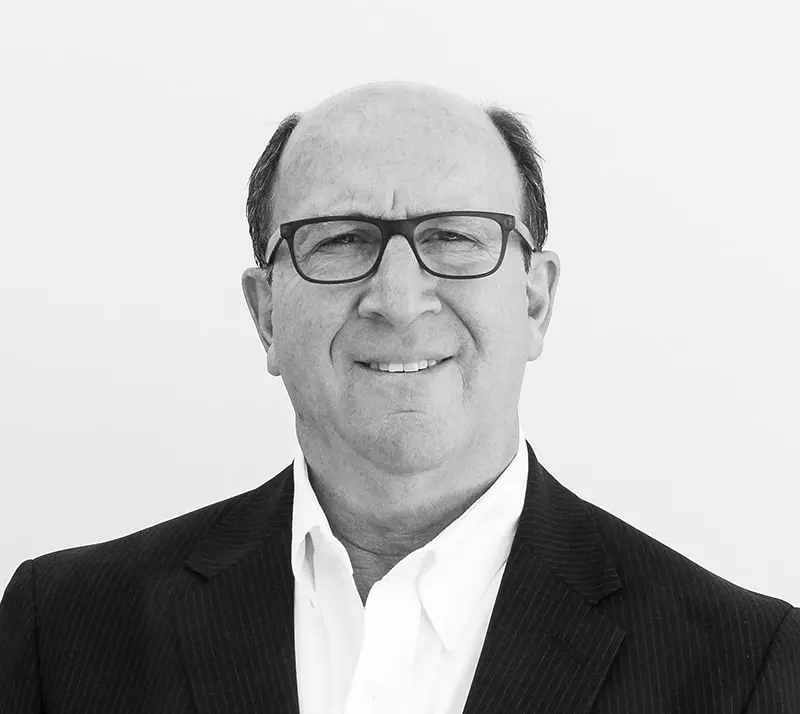
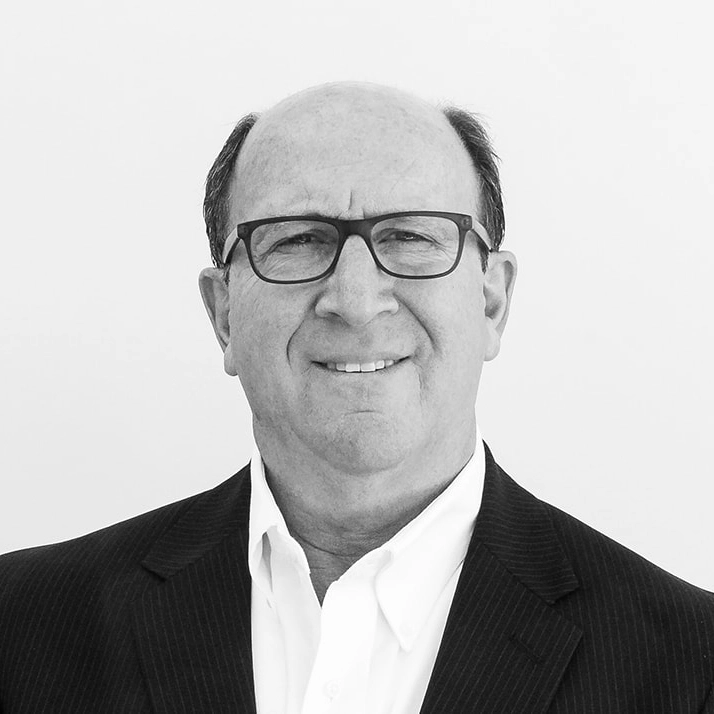
Update

diff --git a/styles/custom.css b/styles/custom.css
@@ -34,12 +34,20 @@
 }
 
 #avatar {
-    background-image: url("../images/michael_rubin.webp");
-    background-size: cover;
-    background-position: center;
+    /* background-image: url("../images/michael_rubin.webp"); */
+    /* background-size: cover; */
+    /* background-position: center; */
     width: 300px;
     height: 300px;
     border-radius: 50%;
+    overflow: hidden;
+    position: relative;
+  }
+
+  #avatar img {
+    width: 100%;
+    height: auto;
+    overflow: hidden;
   }
 
   @media (min-width: 668px ) {

diff --git a/index.html b/index.html
@@ -202,7 +202,9 @@
 		<div class="container mt-5">
 			<div class="row">
 				<div class="col-lg-12 text-center">
-					<div id="avatar" class="mx-auto my-3"></div>
+					<div id="avatar" class="mx-auto my-3">
+						<img src="./images/michael_rubin.webp" alt="Woodland Hills Realtor Michael P. Rubin">
+					</div>
 					<span class="display-4 d-block mb-2" style="font-size: 1.5rem;">What Makes Michael P. Rubin an Experienced Residential and Commercial Realtor?
 					</span>
 					<p class="text-info">DRE License #982576</p>
